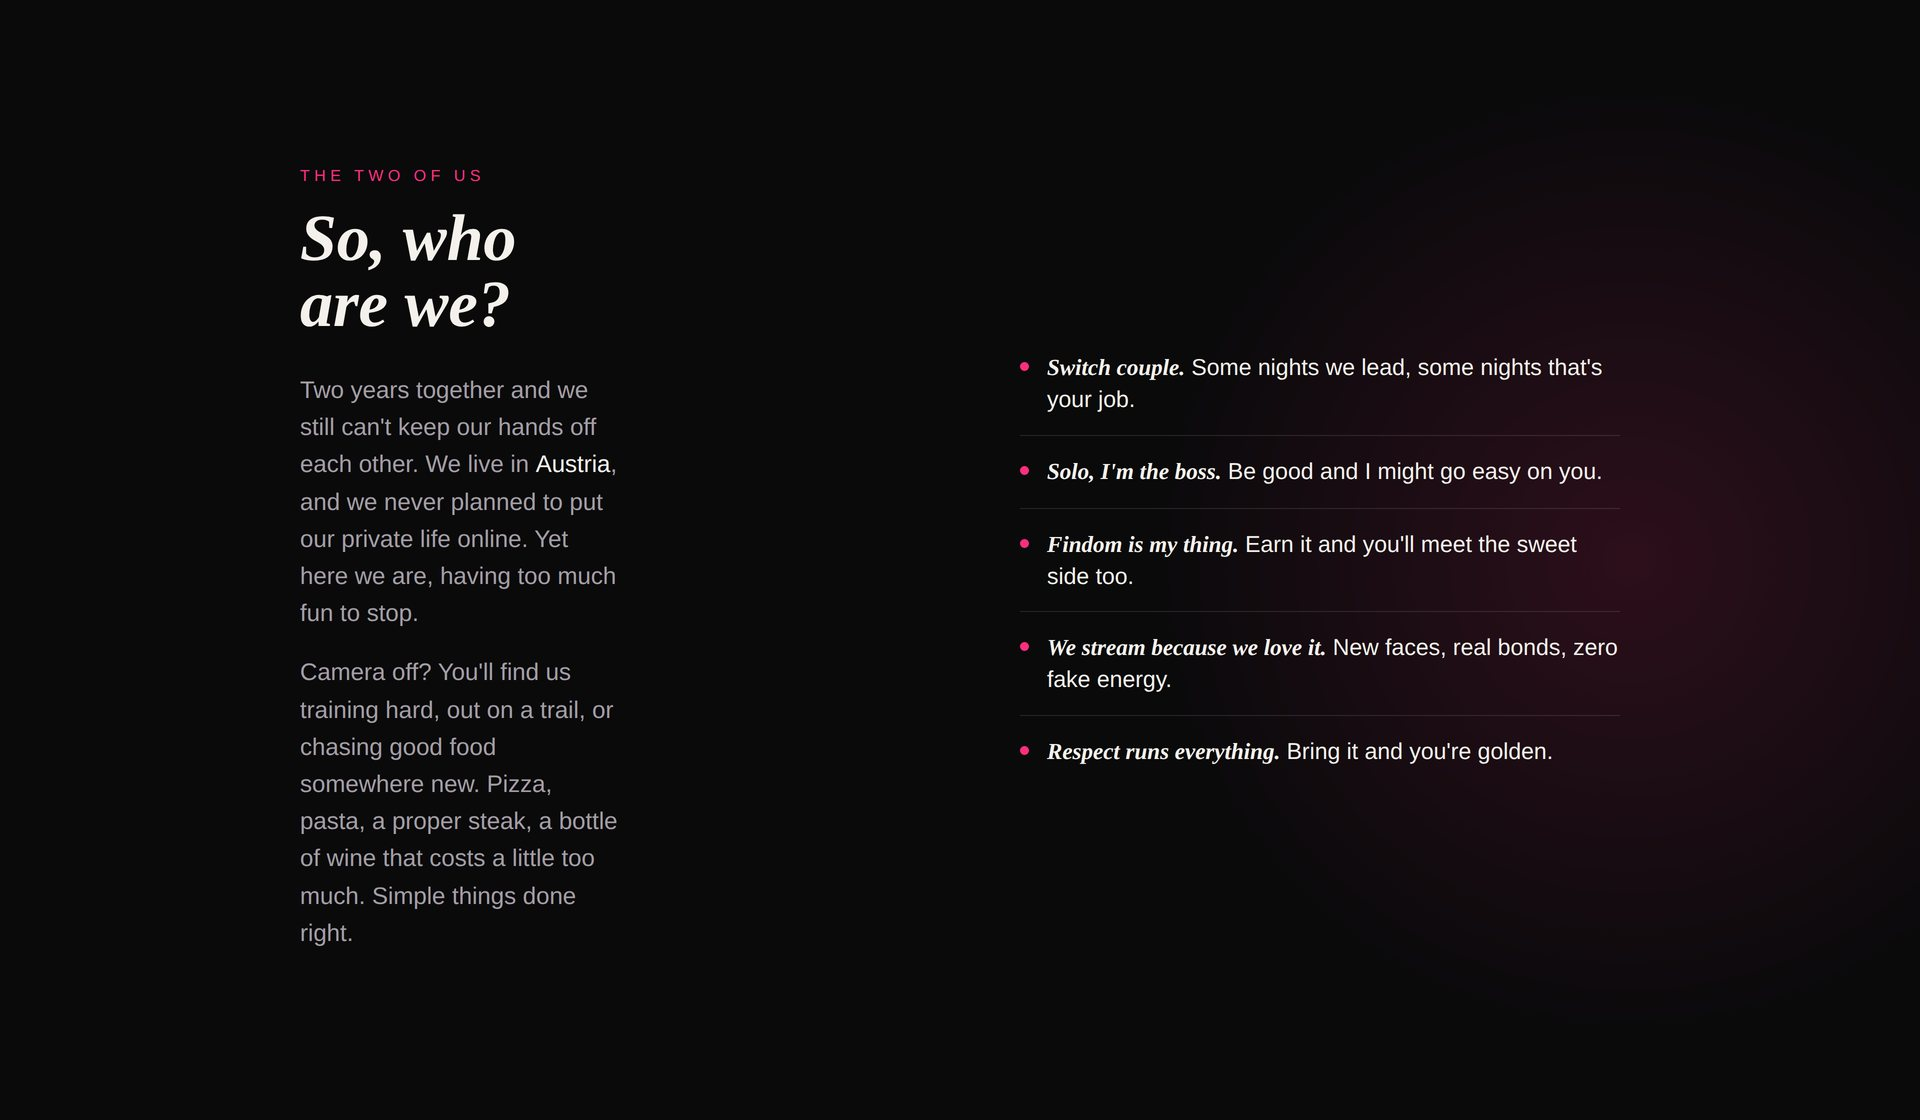
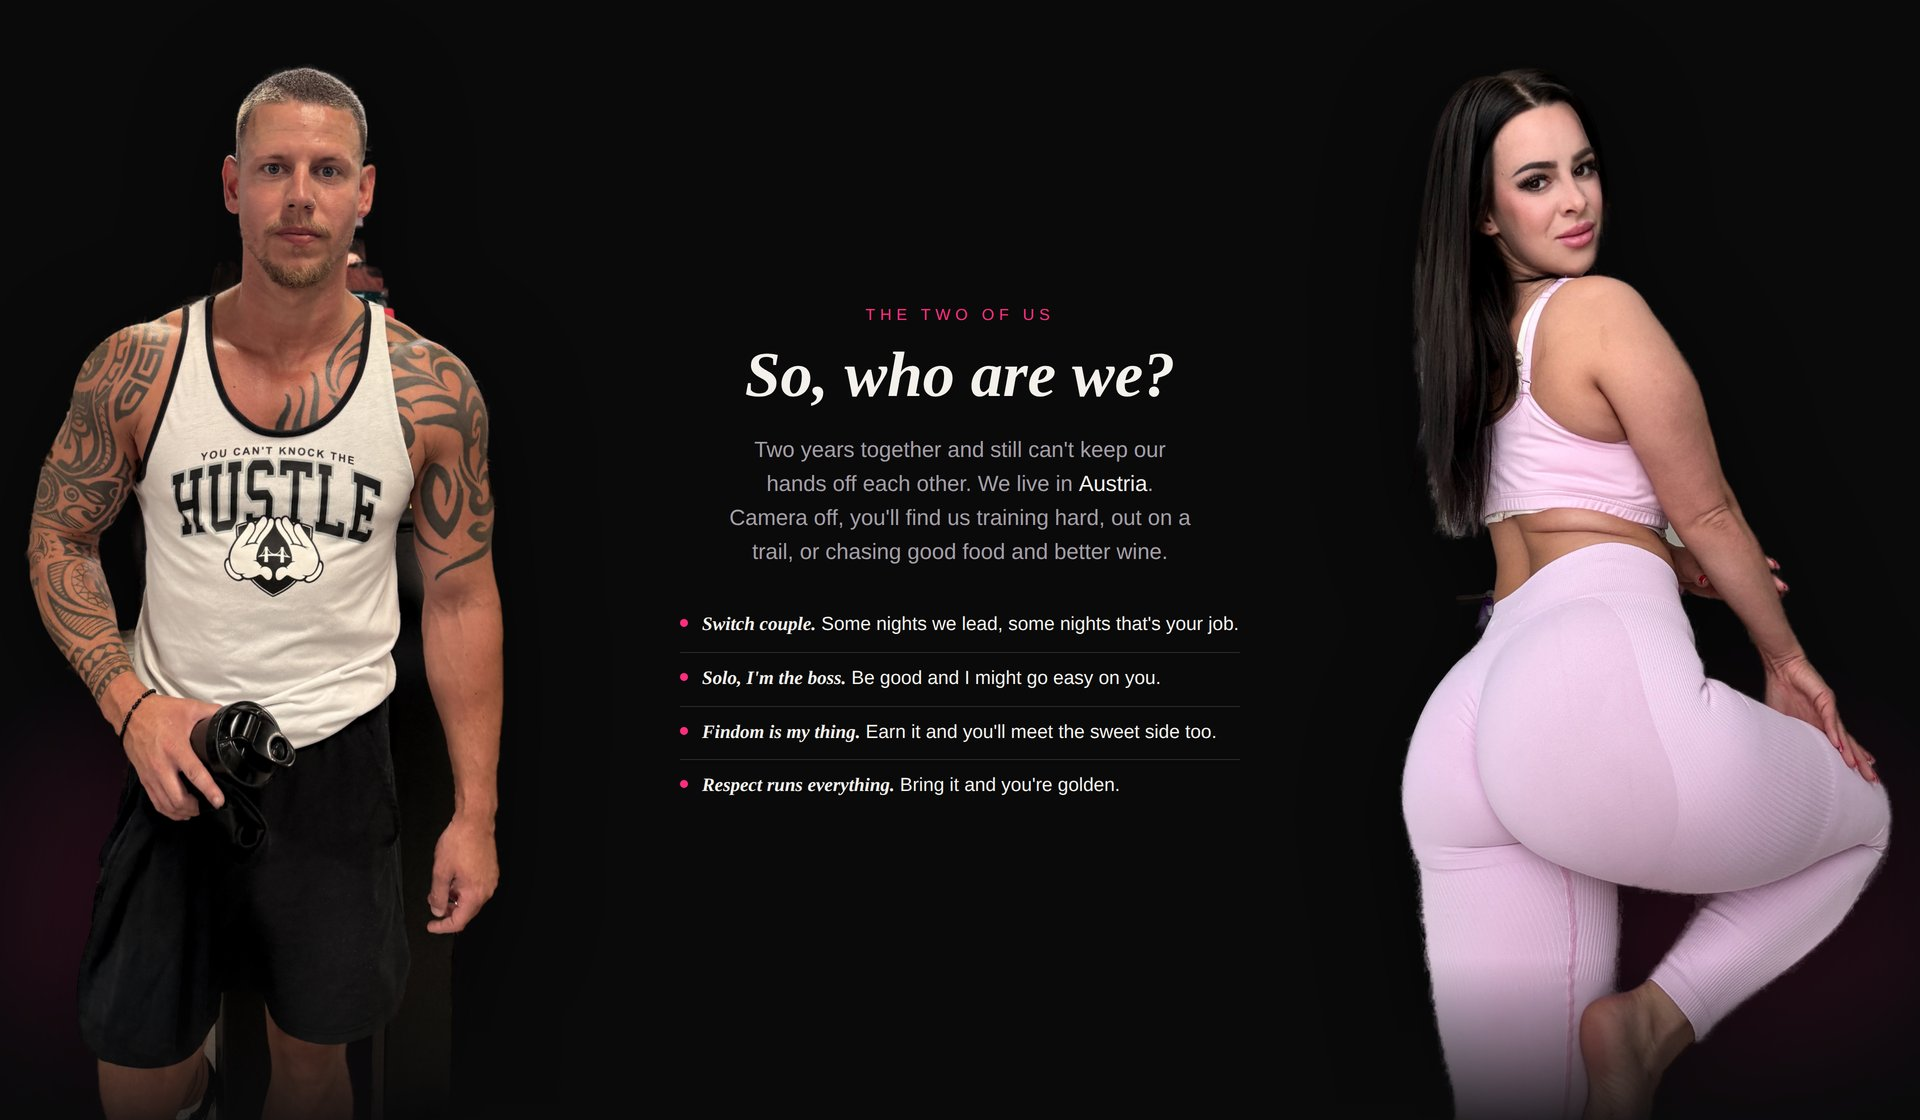
New photos: gym-couple hero, face-portrait solo half, About Me with cutout figures
Claude-Session: https://claude.ai/code/session_01RtbiUYFNdswaq59EqqYNLn

Changed region(s): [[0.3438, 0.0625, 1.0, 1.0], [0.0, 0.0625, 0.3125, 0.8438], [0.0312, 0.9062, 0.1875, 1.0]]

diff --git a/fg-about.html b/fg-about.html
@@ -3,40 +3,47 @@
 <link rel="preconnect" href="https://fonts.googleapis.com"><link rel="preconnect" href="https://fonts.gstatic.com" crossorigin>
 <link href="https://fonts.googleapis.com/css2?family=Fraunces:ital,opsz,wght@1,9..144,500;1,9..144,600&family=Inter:wght@300;400;500;600;700&display=swap" rel="stylesheet">
 <style>
-  :root{--warm:#F4F1EC;--mute:#a49ea6;--hot:#FF2E7E;--line:rgba(244,241,236,.12);}
+  :root{--warm:#F4F1EC;--mute:#a49ea6;--hot:#FF2E7E;--line:rgba(244,241,236,.14);}
   *{box-sizing:border-box;margin:0;padding:0;}
-  .bar{width:1920px;height:1120px;background:#0A0A0B;font-family:'Inter',sans-serif;color:var(--warm);
-    display:flex;align-items:center;gap:120px;padding:0 300px;position:relative;overflow:hidden;}
-  .wash{position:absolute;right:-260px;top:50%;width:1100px;height:1100px;transform:translateY(-50%);
-    background:radial-gradient(circle,rgba(255,46,126,.14) 0%,rgba(255,46,126,0) 62%);}
-  .col{position:relative;flex:1;}
-  .eyebrow{font-weight:500;font-size:16px;letter-spacing:.28em;text-transform:uppercase;color:var(--hot);margin-bottom:20px;}
-  h2{font-family:'Fraunces',serif;font-style:italic;font-weight:600;font-size:66px;line-height:1.0;letter-spacing:0;margin-bottom:34px;}
-  p{font-size:24px;font-weight:300;line-height:1.55;color:var(--mute);max-width:24ch;}
-  p+p{margin-top:22px;}
-  p b{font-weight:500;color:var(--warm);}
-  .facts{position:relative;flex:1;}
-  .facts li{list-style:none;display:flex;gap:18px;align-items:baseline;padding:20px 0;border-bottom:1px solid var(--line);
-    font-size:23px;font-weight:300;line-height:1.34;color:var(--warm);}
+  .bar{position:relative;width:1920px;height:1120px;background:#0A0A0B;overflow:hidden;font-family:'Inter',sans-serif;color:var(--warm);}
+  .floor{position:absolute;left:0;right:0;bottom:0;height:360px;background:linear-gradient(180deg,rgba(10,10,11,0) 0%,rgba(10,10,11,.0) 55%,rgba(10,10,11,.85) 100%);}
+  .glow{position:absolute;bottom:-120px;width:640px;height:640px;border-radius:50%;
+    background:radial-gradient(circle,rgba(255,46,126,.20) 0%,rgba(255,46,126,0) 62%);}
+  .glow.l{left:-120px;} .glow.r{right:-120px;}
+  .fig{position:absolute;bottom:0;height:1058px;filter:drop-shadow(0 24px 46px rgba(0,0,0,.55));}
+  .fig.l{left:24px;} .fig.r{right:24px;}
+  .center{position:absolute;left:50%;top:50%;transform:translate(-50%,-50%);width:820px;text-align:center;z-index:3;}
+  .halo{position:absolute;left:50%;top:50%;transform:translate(-50%,-50%);width:1000px;height:1000px;z-index:2;
+    background:radial-gradient(ellipse 50% 46% at 50% 50%,rgba(10,10,11,.92) 0%,rgba(10,10,11,.72) 46%,rgba(10,10,11,0) 74%);}
+  .eyebrow{font-weight:500;font-size:16px;letter-spacing:.3em;text-transform:uppercase;color:var(--hot);margin-bottom:18px;}
+  h2{font-family:'Fraunces',serif;font-style:italic;font-weight:600;font-size:64px;line-height:1.0;margin-bottom:26px;}
+  .lead{font-size:22px;font-weight:300;line-height:1.55;color:var(--mute);max-width:38ch;margin:0 auto 30px;}
+  .lead b{font-weight:500;color:var(--warm);}
+  .facts{display:flex;flex-direction:column;gap:0;text-align:left;max-width:560px;margin:0 auto;}
+  .facts li{list-style:none;display:flex;gap:14px;align-items:baseline;padding:14px 0;border-bottom:1px solid var(--line);
+    font-size:19px;font-weight:300;line-height:1.3;color:var(--warm);}
   .facts li:last-child{border-bottom:none;}
-  .facts li .n{flex:none;width:9px;height:9px;border-radius:50%;background:var(--hot);transform:translateY(-4px);}
+  .facts li .n{flex:none;width:8px;height:8px;border-radius:50%;background:var(--hot);transform:translateY(-3px);}
   .facts li b{font-family:'Fraunces',serif;font-style:italic;font-weight:600;color:var(--warm);}
 </style></head>
 <body>
 <div class="bar">
-  <div class="wash"></div>
-  <div class="col">
+  <div class="glow l"></div>
+  <div class="glow r"></div>
+  <img class="fig l" src="assets/bio/cut-ricci.png" alt="">
+  <img class="fig r" src="assets/bio/cut-rebi.png" alt="">
+  <div class="floor"></div>
+  <div class="halo"></div>
+  <div class="center">
     <div class="eyebrow">The two of us</div>
-    <h2>So, who<br>are we?</h2>
-    <p>Two years together and we still can't keep our hands off each other. We live in <b>Austria</b>, and we never planned to put our private life online. Yet here we are, having too much fun to stop.</p>
-    <p>Camera off? You'll find us training hard, out on a trail, or chasing good food somewhere new. Pizza, pasta, a proper steak, a bottle of wine that costs a little too much. Simple things done right.</p>
+    <h2>So, who are we?</h2>
+    <div class="lead">Two years together and still can't keep our hands off each other. We live in <b>Austria</b>. Camera off, you'll find us training hard, out on a trail, or chasing good food and better wine.</div>
+    <ul class="facts">
+      <li><span class="n"></span><span><b>Switch couple.</b> Some nights we lead, some nights that's your job.</span></li>
+      <li><span class="n"></span><span><b>Solo, I'm the boss.</b> Be good and I might go easy on you.</span></li>
+      <li><span class="n"></span><span><b>Findom is my thing.</b> Earn it and you'll meet the sweet side too.</span></li>
+      <li><span class="n"></span><span><b>Respect runs everything.</b> Bring it and you're golden.</span></li>
+    </ul>
   </div>
-  <ul class="facts">
-    <li><span class="n"></span><span><b>Switch couple.</b> Some nights we lead, some nights that's your job.</span></li>
-    <li><span class="n"></span><span><b>Solo, I'm the boss.</b> Be good and I might go easy on you.</span></li>
-    <li><span class="n"></span><span><b>Findom is my thing.</b> Earn it and you'll meet the sweet side too.</span></li>
-    <li><span class="n"></span><span><b>We stream because we love it.</b> New faces, real bonds, zero fake energy.</span></li>
-    <li><span class="n"></span><span><b>Respect runs everything.</b> Bring it and you're golden.</span></li>
-  </ul>
 </div>
 </body></html>

diff --git a/bg-main.html b/bg-main.html
@@ -12,10 +12,10 @@
   .glow{position:absolute;left:50%;top:50%;width:900px;height:900px;transform:translate(-50%,-50%);
     background:radial-gradient(circle,rgba(255,46,126,.08) 0%,rgba(255,46,126,0) 62%);}
   /* wider frame, softer oval fade */
-  .frame{position:relative;width:700px;height:560px;
-    background:url('assets/bio/newhero.JPG') 60% 30%/cover no-repeat;
-    -webkit-mask-image:radial-gradient(ellipse 66% 64% at 50% 50%,#000 38%,rgba(0,0,0,0) 100%);
-            mask-image:radial-gradient(ellipse 66% 64% at 50% 50%,#000 38%,rgba(0,0,0,0) 100%);}
+  .frame{position:relative;width:660px;height:800px;
+    background:url('assets/bio/newhero.JPEG') 50% 14%/150% auto no-repeat;
+    -webkit-mask-image:radial-gradient(ellipse 62% 60% at 50% 46%,#000 40%,rgba(0,0,0,0) 100%);
+            mask-image:radial-gradient(ellipse 62% 60% at 50% 46%,#000 40%,rgba(0,0,0,0) 100%);}
 </style></head>
 <body>
 <div id="bg">

diff --git a/fg-fansly-solo.html b/fg-fansly-solo.html
@@ -6,7 +6,7 @@
   :root{--warm:#F4F1EC;--mute:#c7c2cb;--hot:#FF2E7E;}
   *{box-sizing:border-box;margin:0;padding:0;}
   #h{position:relative;width:960px;height:1120px;background:#0A0A0B;overflow:hidden;font-family:'Inter',sans-serif;color:var(--warm);}
-  .ph{position:absolute;inset:0;background:url('assets/bio/solo-src.jpg') center 26%/cover no-repeat;}
+  .ph{position:absolute;inset:0;background:url('assets/bio/newsolo.JPG') center 20%/cover no-repeat;}
   .scrim{position:absolute;inset:0;background:linear-gradient(180deg,rgba(10,10,11,.55) 0%,rgba(10,10,11,0) 26%,rgba(10,10,11,0) 44%,rgba(10,10,11,.78) 78%,rgba(10,10,11,.95) 100%);}
   .badge{position:absolute;top:132px;left:50%;transform:translateX(-50%);display:inline-flex;align-items:center;gap:9px;
     background:var(--hot);color:#0A0A0B;font-weight:700;font-size:17px;letter-spacing:.12em;text-transform:uppercase;padding:11px 22px;border-radius:999px;
